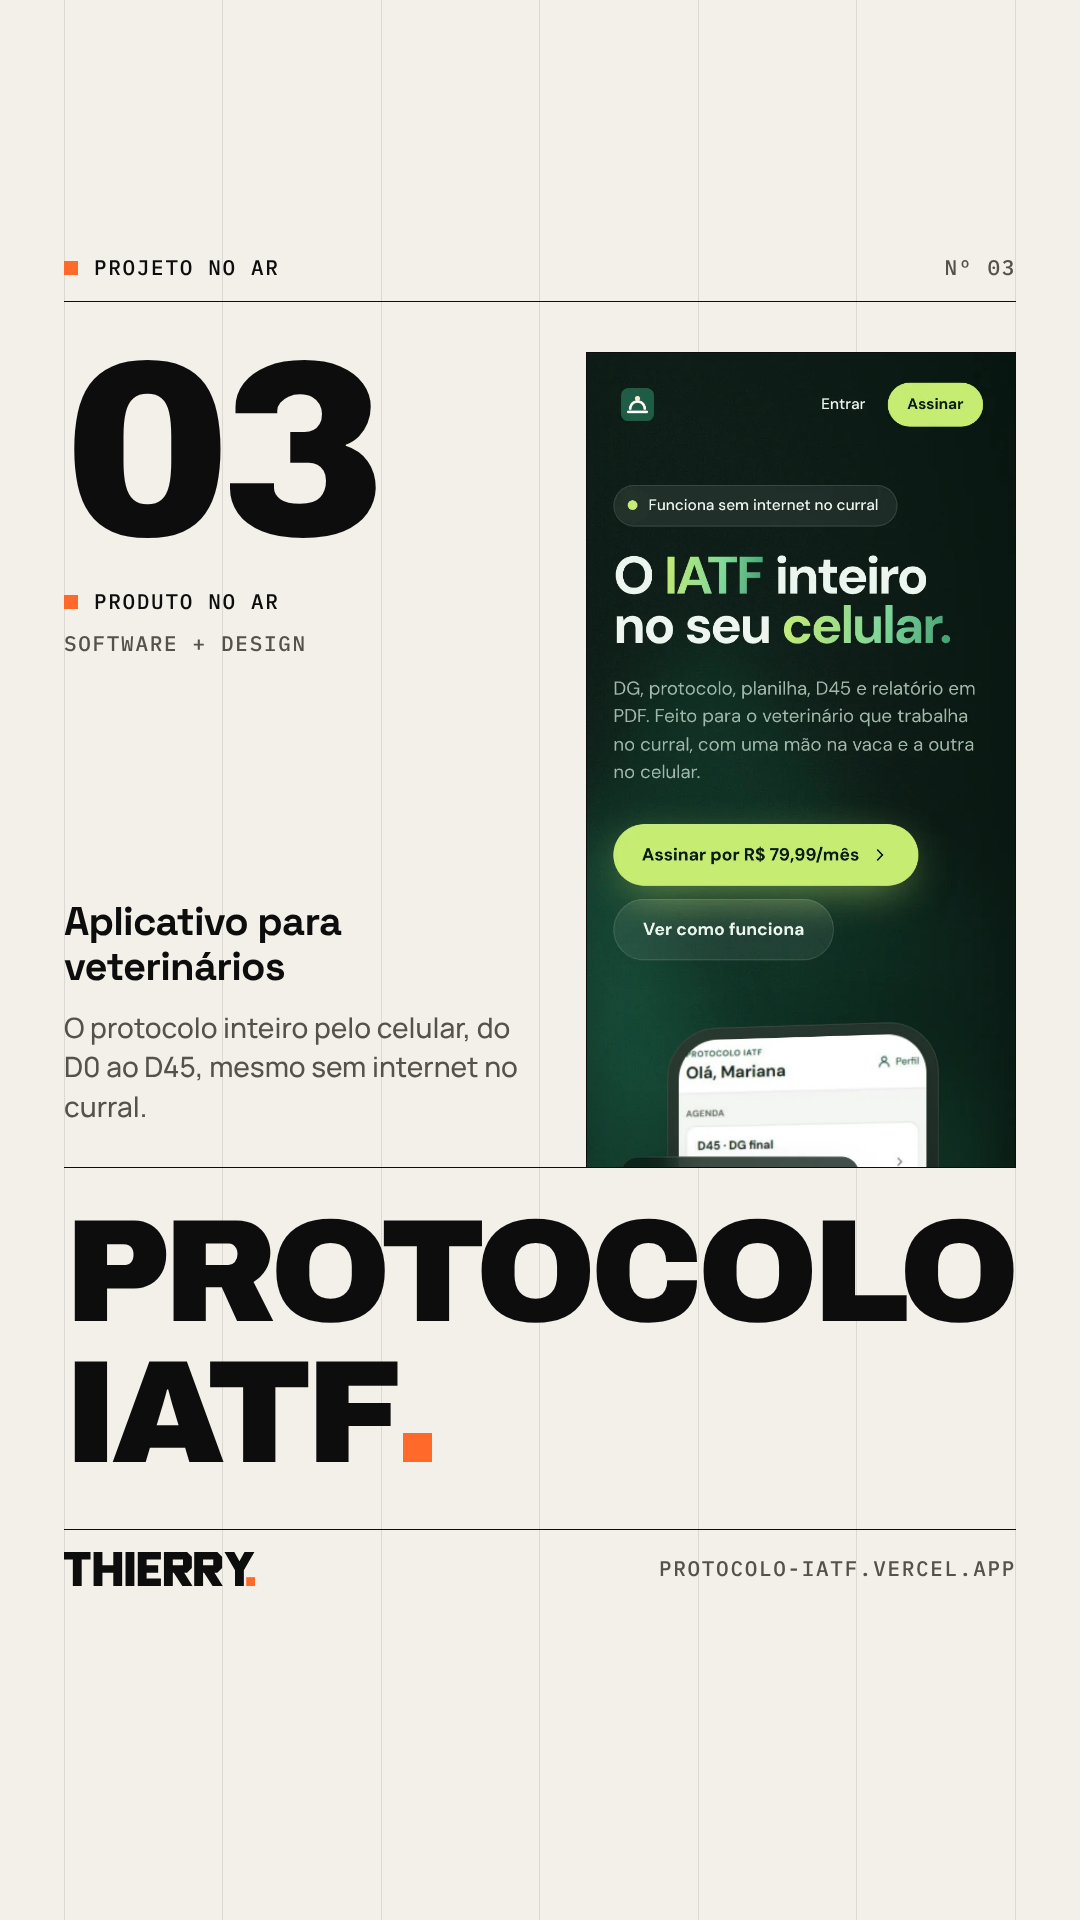
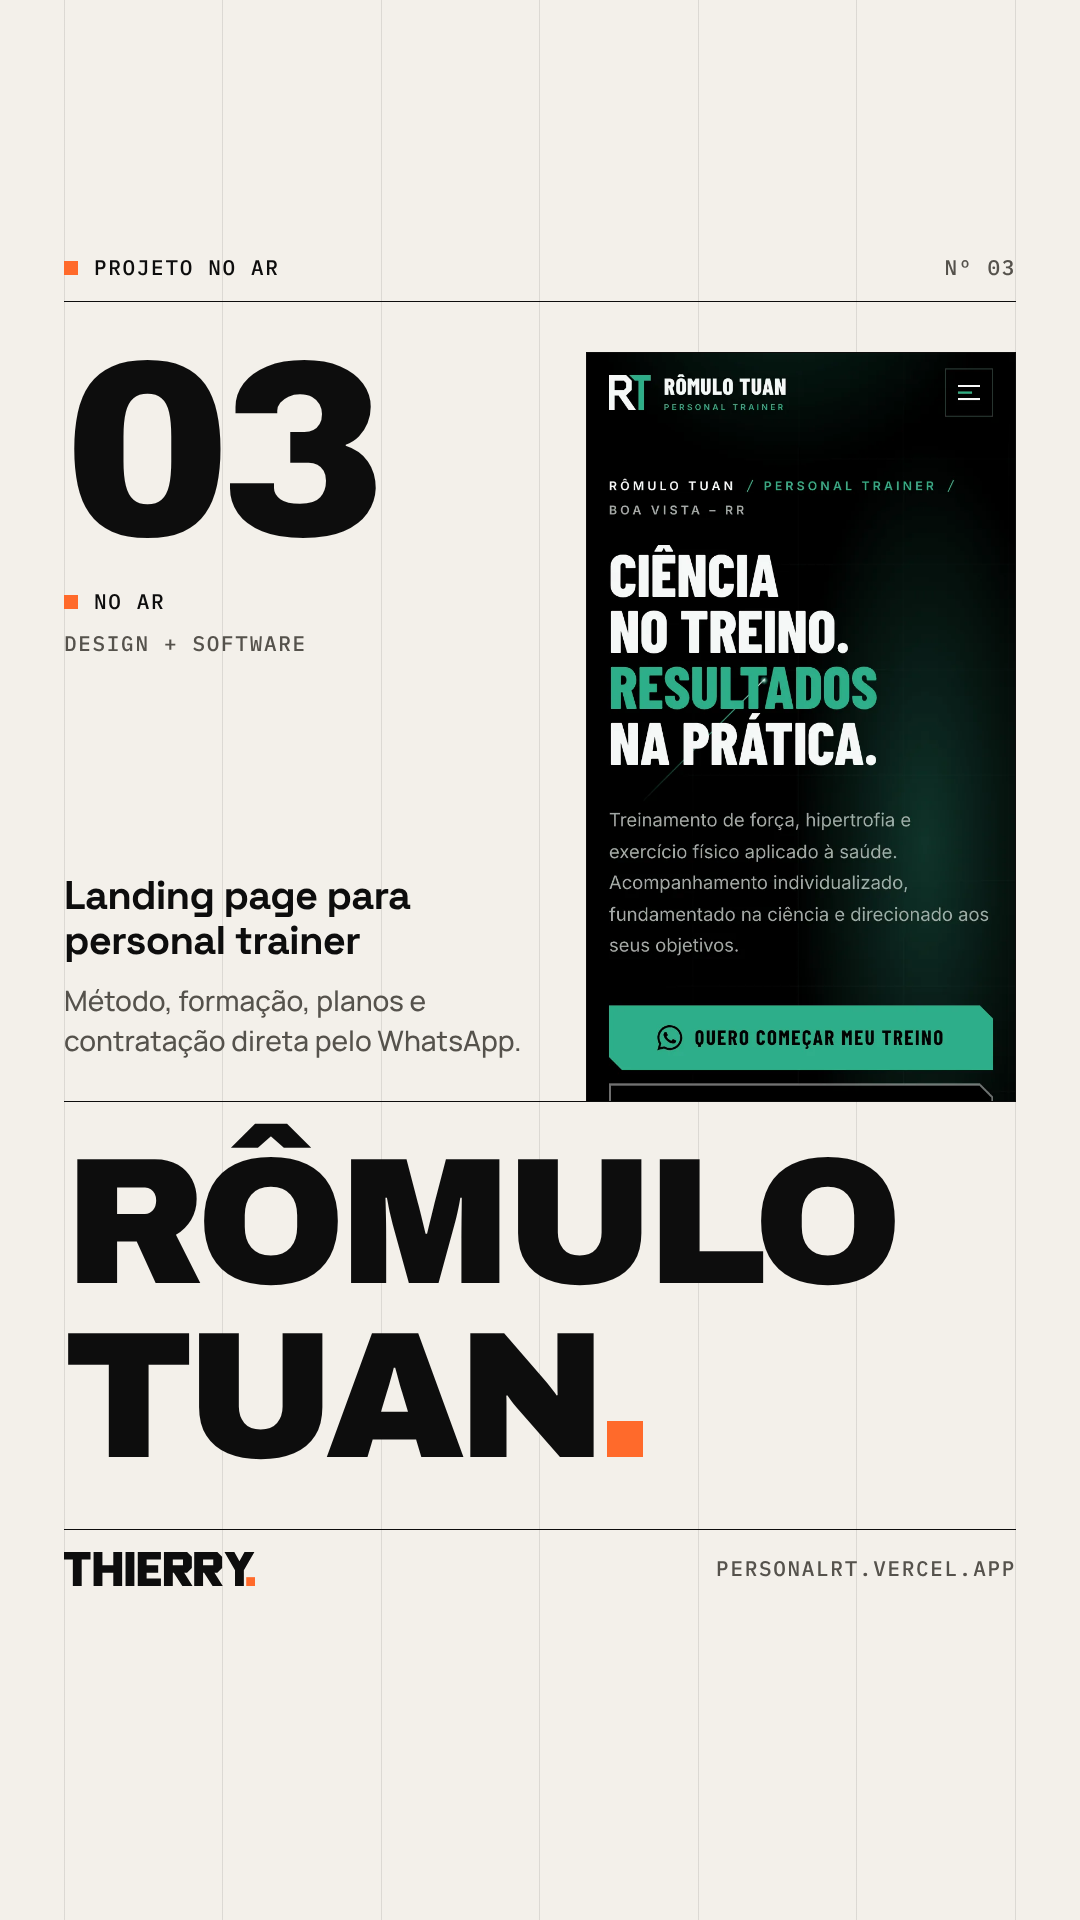
Portfólio: Centro de Isoladas entra no lugar do Protocolo IATF
- Novo case /projetos/centro-de-isoladas (centrodeisoladas.com.br), com conteúdo e capturas reais do site
- Protocolo IATF fica oculto (hidden: true); a URL do case deixa de existir
- Página /para/cursos passa a destacar o Centro de Isoladas; serviços e story do Instagram ajustados
- Relatório e capturas atualizados

Claude-Session: https://claude.ai/code/session_018eqFjanEQ77X5sWiiuCgkJ

diff --git a/app/data/projects.ts b/app/data/projects.ts
@@ -241,6 +241,30 @@ export const projects: Project[] = [
     ...media('raphael-solek', 'Dr. Raphael Solek')
   },
   {
+    slug: 'centro-de-isoladas',
+    name: 'Centro de Isoladas',
+    category: 'Site e plataforma de estudos para cursinho',
+    pillars: ['Design', 'Software'],
+    summary: 'Site do cursinho preparatório de Boa Vista (RR) com foco em UFRR e UERR: turmas presenciais, cursos online e plataforma de estudos com videoaulas, questões e simulados.',
+    context: 'O Centro de Isoladas (CDI) é um cursinho preparatório de Boa Vista (RR) que trabalha com isoladas: aulas por disciplina, com professor especialista em cada área e foco nos vestibulares da UFRR e da UERR.',
+    problem: 'O cursinho precisava divulgar as turmas presenciais, do 5º ano ao pré-vestibular, e ao mesmo tempo oferecer um lugar para o aluno estudar fora da sala e acompanhar o próprio progresso.',
+    solution: 'Um site que apresenta as turmas, o método, os professores, os aprovados e os aulões, ligado a uma plataforma online com videoaulas, banco de questões com resolução comentada, simulados cronometrados no modelo da UFRR e desempenho por disciplina. A matrícula começa pelo contato do próprio site.',
+    features: [
+      'Cinco turmas presenciais, do 5º ano ao pré-vestibular',
+      'Cursos online com videoaulas e materiais de apoio',
+      'Banco de questões com resolução comentada',
+      'Simulados cronometrados no modelo da UFRR',
+      'Desempenho do aluno por disciplina',
+      'Páginas de professores, aprovados, aulões e guias',
+      'Área do aluno com login'
+    ],
+    delivery: ['Design', 'Desenvolvimento do site', 'Desenvolvimento da área do aluno'],
+    stack: ['Nuxt', 'Vue', 'Nuxt Image'],
+    status: 'No ar',
+    url: 'https://www.centrodeisoladas.com.br',
+    ...media('centro-de-isoladas', 'Centro de Isoladas', 'isoladas', false)
+  },
+  {
     slug: 'protocolo-iatf',
     name: 'Protocolo IATF',
     category: 'Aplicativo para veterinários',
@@ -262,7 +286,9 @@ export const projects: Project[] = [
     stack: ['Nuxt', 'Vue', 'PWA (instalável e offline)'],
     status: 'Produto no ar',
     url: 'https://protocolo-iatf.vercel.app',
-    ...media('protocolo-iatf', 'Protocolo IATF')
+    ...media('protocolo-iatf', 'Protocolo IATF'),
+    // fora do portfólio a pedido do autor (26/11/2026); remova a linha abaixo para voltar a exibir
+    hidden: true
   },
   {
     slug: 'louise-reis',

diff --git a/app/data/services.ts b/app/data/services.ts
@@ -58,7 +58,7 @@ export const services: Service[] = [
     description: 'Sistemas personalizados, plataformas SaaS, dashboards, ferramentas internas e soluções voltadas à operação empresarial.',
     examples: [
       'Aplicativos de gestão com agenda, finanças e relatórios',
-      'Aplicativos que funcionam sem internet e sincronizam depois',
+      'Plataformas de estudo com videoaulas, questões e simulados',
       'Plataformas por assinatura com área do cliente'
     ],
     benefits: [
@@ -68,7 +68,7 @@ export const services: Service[] = [
     ],
     cta: 'Quero um sistema sob medida',
     topic: 'um sistema sob medida',
-    related: ['agenda-emi', 'protocolo-iatf', 'prumo']
+    related: ['agenda-emi', 'centro-de-isoladas', 'prumo']
   },
   {
     id: 'inteligencia-artificial',
@@ -87,7 +87,7 @@ export const services: Service[] = [
     ],
     cta: 'Quero aplicar IA no meu negócio',
     topic: 'uma solução com inteligência artificial',
-    related: ['prumo', 'agenda-emi', 'protocolo-iatf']
+    related: ['prumo', 'agenda-emi']
   },
   {
     id: 'automacao-e-integracoes',

diff --git a/app/pages/para/[nicho].vue b/app/pages/para/[nicho].vue
@@ -11,8 +11,9 @@ if (!niche) throw createError({ statusCode: 404, statusMessage: 'Página não en
 
 const waSuffix = ` (vim pela página para ${niche.label})`
 const contact = waLink(`Olá, Thierry! Vi a página para ${niche.label} e quero um orçamento.`)
-// Projetos mais próximos do negócio do visitante; sem indicação, os três primeiros em destaque
-const related = (niche.projects.map(findProject).filter(p => !!p).length ? niche.projects.map(findProject).filter(p => !!p) : featuredProjects).slice(0, 3)
+// Projetos mais próximos do negócio do visitante, completados com os destaques até formar três
+const near = niche.projects.map(findProject).filter(p => !!p)
+const related = [...near, ...featuredProjects.filter(p => !near.includes(p))].slice(0, 3)
 // Título com o trecho de destaque marcado
 const [before, after] = niche.title.split(niche.highlight)
 

diff --git a/app/data/niches.ts b/app/data/niches.ts
@@ -39,7 +39,7 @@ export const niches: Niche[] = [
     title: 'Um site para o seu curso que enche as turmas.',
     highlight: 'enche as turmas',
     text: 'Landing pages para cursinhos, escolas e professores: turmas, matrículas, cursos online e contato pelo WhatsApp em uma página rápida e bonita.',
-    projects: [],
+    projects: ['centro-de-isoladas'],
     pointsTitle: 'Feito para quem vende cursos',
     points: [
       { title: 'Turmas e matrículas', text: 'Datas, horários e vagas organizados para o aluno decidir rápido.' },

diff --git a/docs/RELATORIO.md b/docs/RELATORIO.md
@@ -10,8 +10,8 @@ Data: 26/11/2026 · Escopo: identidade visual, redesign completo do site, cases,
   Pentagram e Behance). Também foram localizados o LinkedIn e o GitHub públicos.
 - **Repositório:** Nuxt 4.6 + Vue 3.5 + TypeScript, CSS próprio, 15 projetos cadastrados, rastreamento por Pixel/GA4,
   páginas de anúncio `/para/<nicho>` e versão em inglês.
-- **Projetos:** os 11 projetos do portfólio foram abertos um a um; o conteúdo real de cada página e a stack detectável
-  (com evidência) alimentam os cases. Foram feitas 44 capturas reais (desktop e mobile) em `public/projetos`.
+- **Projetos:** os projetos do portfólio foram abertos um a um; o conteúdo real de cada página e a stack detectável
+  (com evidência) alimentam os cases. Foram feitas capturas reais (desktop e mobile) em `public/projetos`.
 
 ### Identidade visual (Fases 02–04)
 - Três conceitos de logotipo em SVG vetorial (`brand/logos`): **A** monograma estrutural TA, **B** wordmark THIERRY.,
@@ -84,7 +84,8 @@ Capturas desktop e mobile: [`docs/screenshots`](screenshots).
 - **Radar de Clientes:** confirmado como projeto seu por publicação no LinkedIn, mas `radardecliente.com.br` responde 404 e
   o projeto já havia sido retirado do portfólio em um commit anterior. Ficou fora.
 - **Agente Marcos:** nenhuma fonte pública encontrada. Ficou fora.
-- **Centro de Isoladas:** está no ar, mas marcado como oculto "até o projeto estar pronto" no código anterior. Ficou fora.
+- **Centro de Isoladas:** incluído a seu pedido, com o domínio `centrodeisoladas.com.br`, no lugar do Protocolo IATF,
+  que ficou oculto (`hidden: true` em `app/data/projects.ts`).
 - **Attletto Teams:** 404. **Agrovet:** fora da lista curada do site atual. Ambos ficaram fora.
 - **CW Imports:** os depoimentos exibidos no catálogo estão rotulados como "exemplo"; não foram usados como prova social.
 - **Depoimentos, logotipos de clientes, métricas e certificações:** não há material autorizado; nada foi inventado.
@@ -96,8 +97,9 @@ Capturas desktop e mobile: [`docs/screenshots`](screenshots).
 
 1. **Retrato profissional** — ao ter um, salve em `public/brand/` e informe o caminho em `photo` (`app/data/site.ts`).
 2. **Publicação** — nada foi publicado. Um push em `main` dispara o deploy da Vercel; aguarda sua autorização.
-3. **Projetos fora do portfólio:** Radar de Clientes, Centro de Isoladas e Agrovet só entram se você pedir (e com qual
-   status). Já confirmados por você: 4 anos de experiência, site só em português e sem preço na página inicial.
+3. **Projetos fora do portfólio:** Radar de Clientes e Agrovet só entram se você pedir (e com qual status); o Protocolo
+   IATF está oculto e volta removendo `hidden: true`. Já confirmados por você: 4 anos de experiência, site só em
+   português e sem preço na página inicial.
 4. **Tecnologias dos cases** foram detectadas pelo que é visível nos sites publicados; complete `stack` em
    `app/data/projects.ts` se quiser citar backend e serviços.
 5. **Resultados dos cases:** o campo `results` existe e a seção aparece sozinha quando houver números verificáveis.
